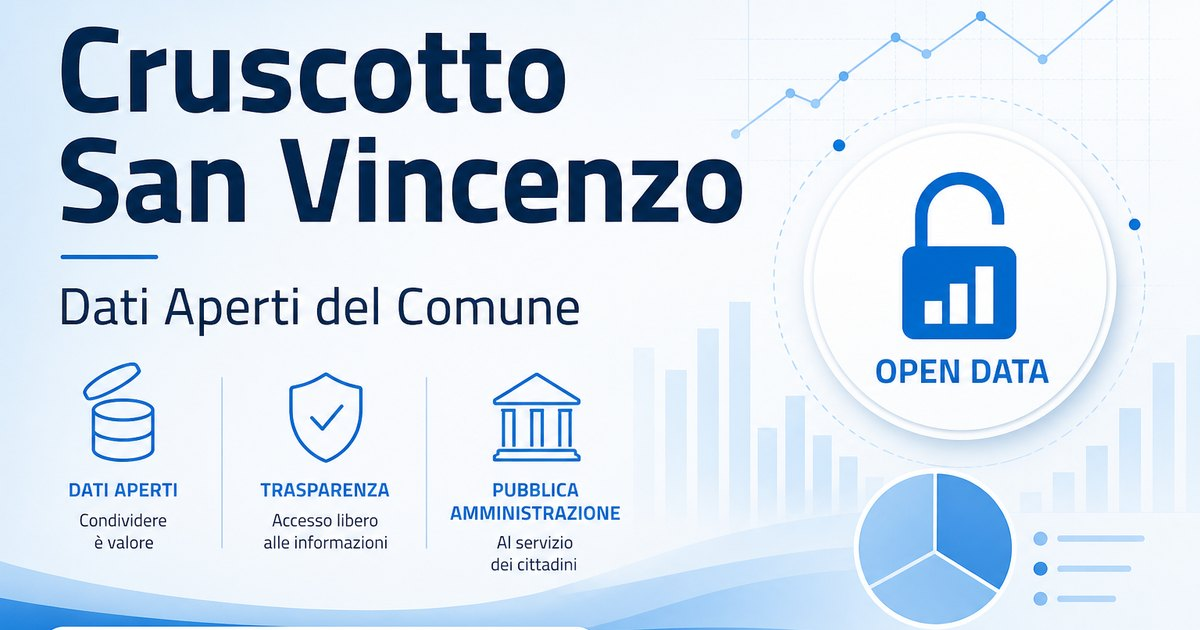
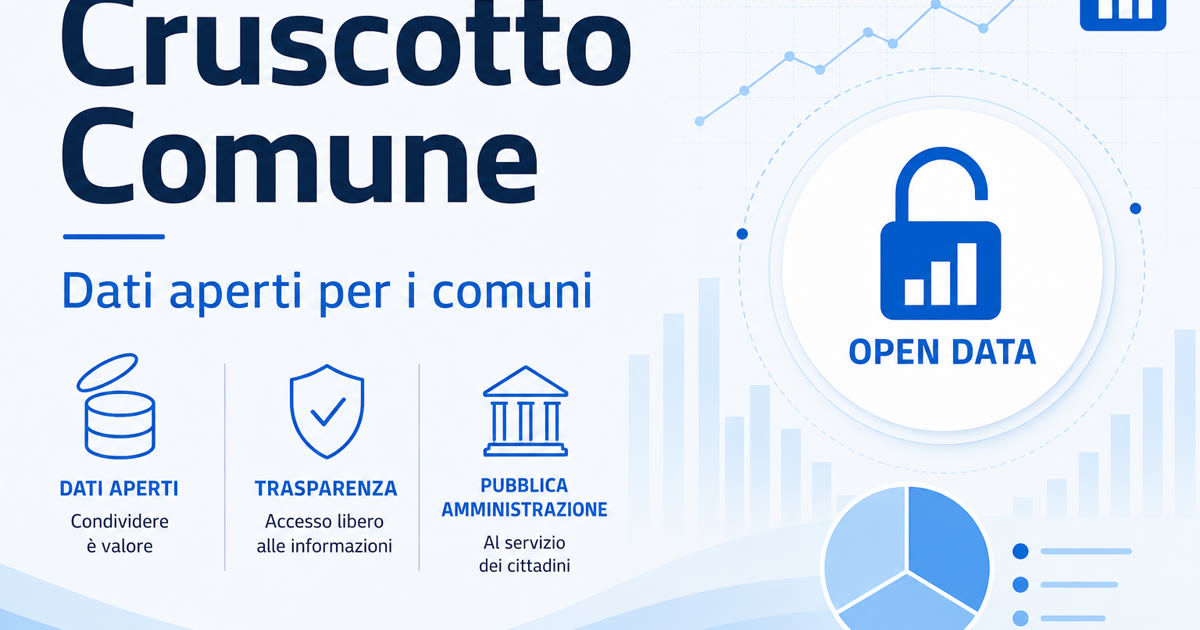
feat: immagine Open Graph di Cruscotto Comune
Sostituisce l’OG del template (testo San Vincenzo) con una 1200×630
sullo stesso impianto visivo e la collega a Open Graph e Twitter Card.

diff --git a/src/app/layout.tsx b/src/app/layout.tsx
@@ -2,7 +2,7 @@ import type { Metadata, Viewport } from "next";
 import { Titillium_Web } from "next/font/google";
 import { LandingShell } from "@/components/LandingShell";
 import { fraseCruscottiEsistenti } from "@/lib/cruscotti-rete";
-import { clipMetaDescription } from "@/lib/meta";
+import { clipMetaDescription, OG_IMAGE } from "@/lib/meta";
 import { SITE } from "@/lib/product";
 import "./globals.css";
 
@@ -19,16 +19,33 @@ export const viewport: Viewport = {
   initialScale: 1,
 };
 
+const description = clipMetaDescription(
+  `Dashboard di dati aperti per piccoli e medi comuni italiani, pronte da usare e facili da replicare. Oggi ${fraseCruscottiEsistenti()}. Progetto indipendente, non ufficiale.`,
+);
+
 export const metadata: Metadata = {
   metadataBase: new URL(SITE.url),
   title: {
     default: `${SITE.name} — ${SITE.tagline}`,
     template: `%s | ${SITE.name}`,
   },
-  description: clipMetaDescription(
-    `Dashboard di dati aperti per piccoli e medi comuni italiani, pronte da usare e facili da replicare. Oggi ${fraseCruscottiEsistenti()}. Progetto indipendente, non ufficiale.`,
-  ),
+  description,
   icons: { icon: [{ url: "/favicon.svg", type: "image/svg+xml" }] },
+  openGraph: {
+    title: `${SITE.name} | Dati aperti per i comuni`,
+    description,
+    url: SITE.url,
+    siteName: SITE.name,
+    locale: "it_IT",
+    type: "website",
+    images: [OG_IMAGE],
+  },
+  twitter: {
+    card: "summary_large_image",
+    title: `${SITE.name} | Dati aperti per i comuni`,
+    description,
+    images: [OG_IMAGE.url],
+  },
 };
 
 export default function RootLayout({

diff --git a/src/lib/scuola.ts b/src/lib/scuola.ts
@@ -5,7 +5,7 @@
  */
 
 import type { Metadata } from "next";
-import { clipMetaDescription, wordCount } from "@/lib/meta";
+import { clipMetaDescription, OG_IMAGE, wordCount } from "@/lib/meta";
 import { AUTHOR, SITE } from "@/lib/product";
 import { LEZIONI as LEZIONI_SRC } from "@/lib/scuola-lezioni";
 import classiJson from "@/data/scuola/classi.json";
@@ -698,13 +698,13 @@ export function scuolaPageMetadata(opts: {
       url,
       locale: "it_IT",
       type: "website",
-      images: [{ url: "/og-image.jpg" }],
+      images: [OG_IMAGE],
     },
     twitter: {
       card: "summary_large_image",
       title: `${opts.title} | ${SITE.name}`,
       description,
-      images: ["/og-image.jpg"],
+      images: [OG_IMAGE.url],
     },
     robots: { index, follow: index },
   };

diff --git a/src/lib/meta.ts b/src/lib/meta.ts
@@ -1,5 +1,13 @@
 const META_MAX = 155;
 
+export const OG_IMAGE = {
+  url: "/og-image.jpg",
+  width: 1200,
+  height: 630,
+  alt: "Cruscotto Comune — dati aperti per i comuni",
+  type: "image/jpeg",
+} as const;
+
 export function clipMetaDescription(text: string, max = META_MAX): string {
   const t = text.trim().replace(/\s+/g, " ");
   if (t.length <= max) return t;
